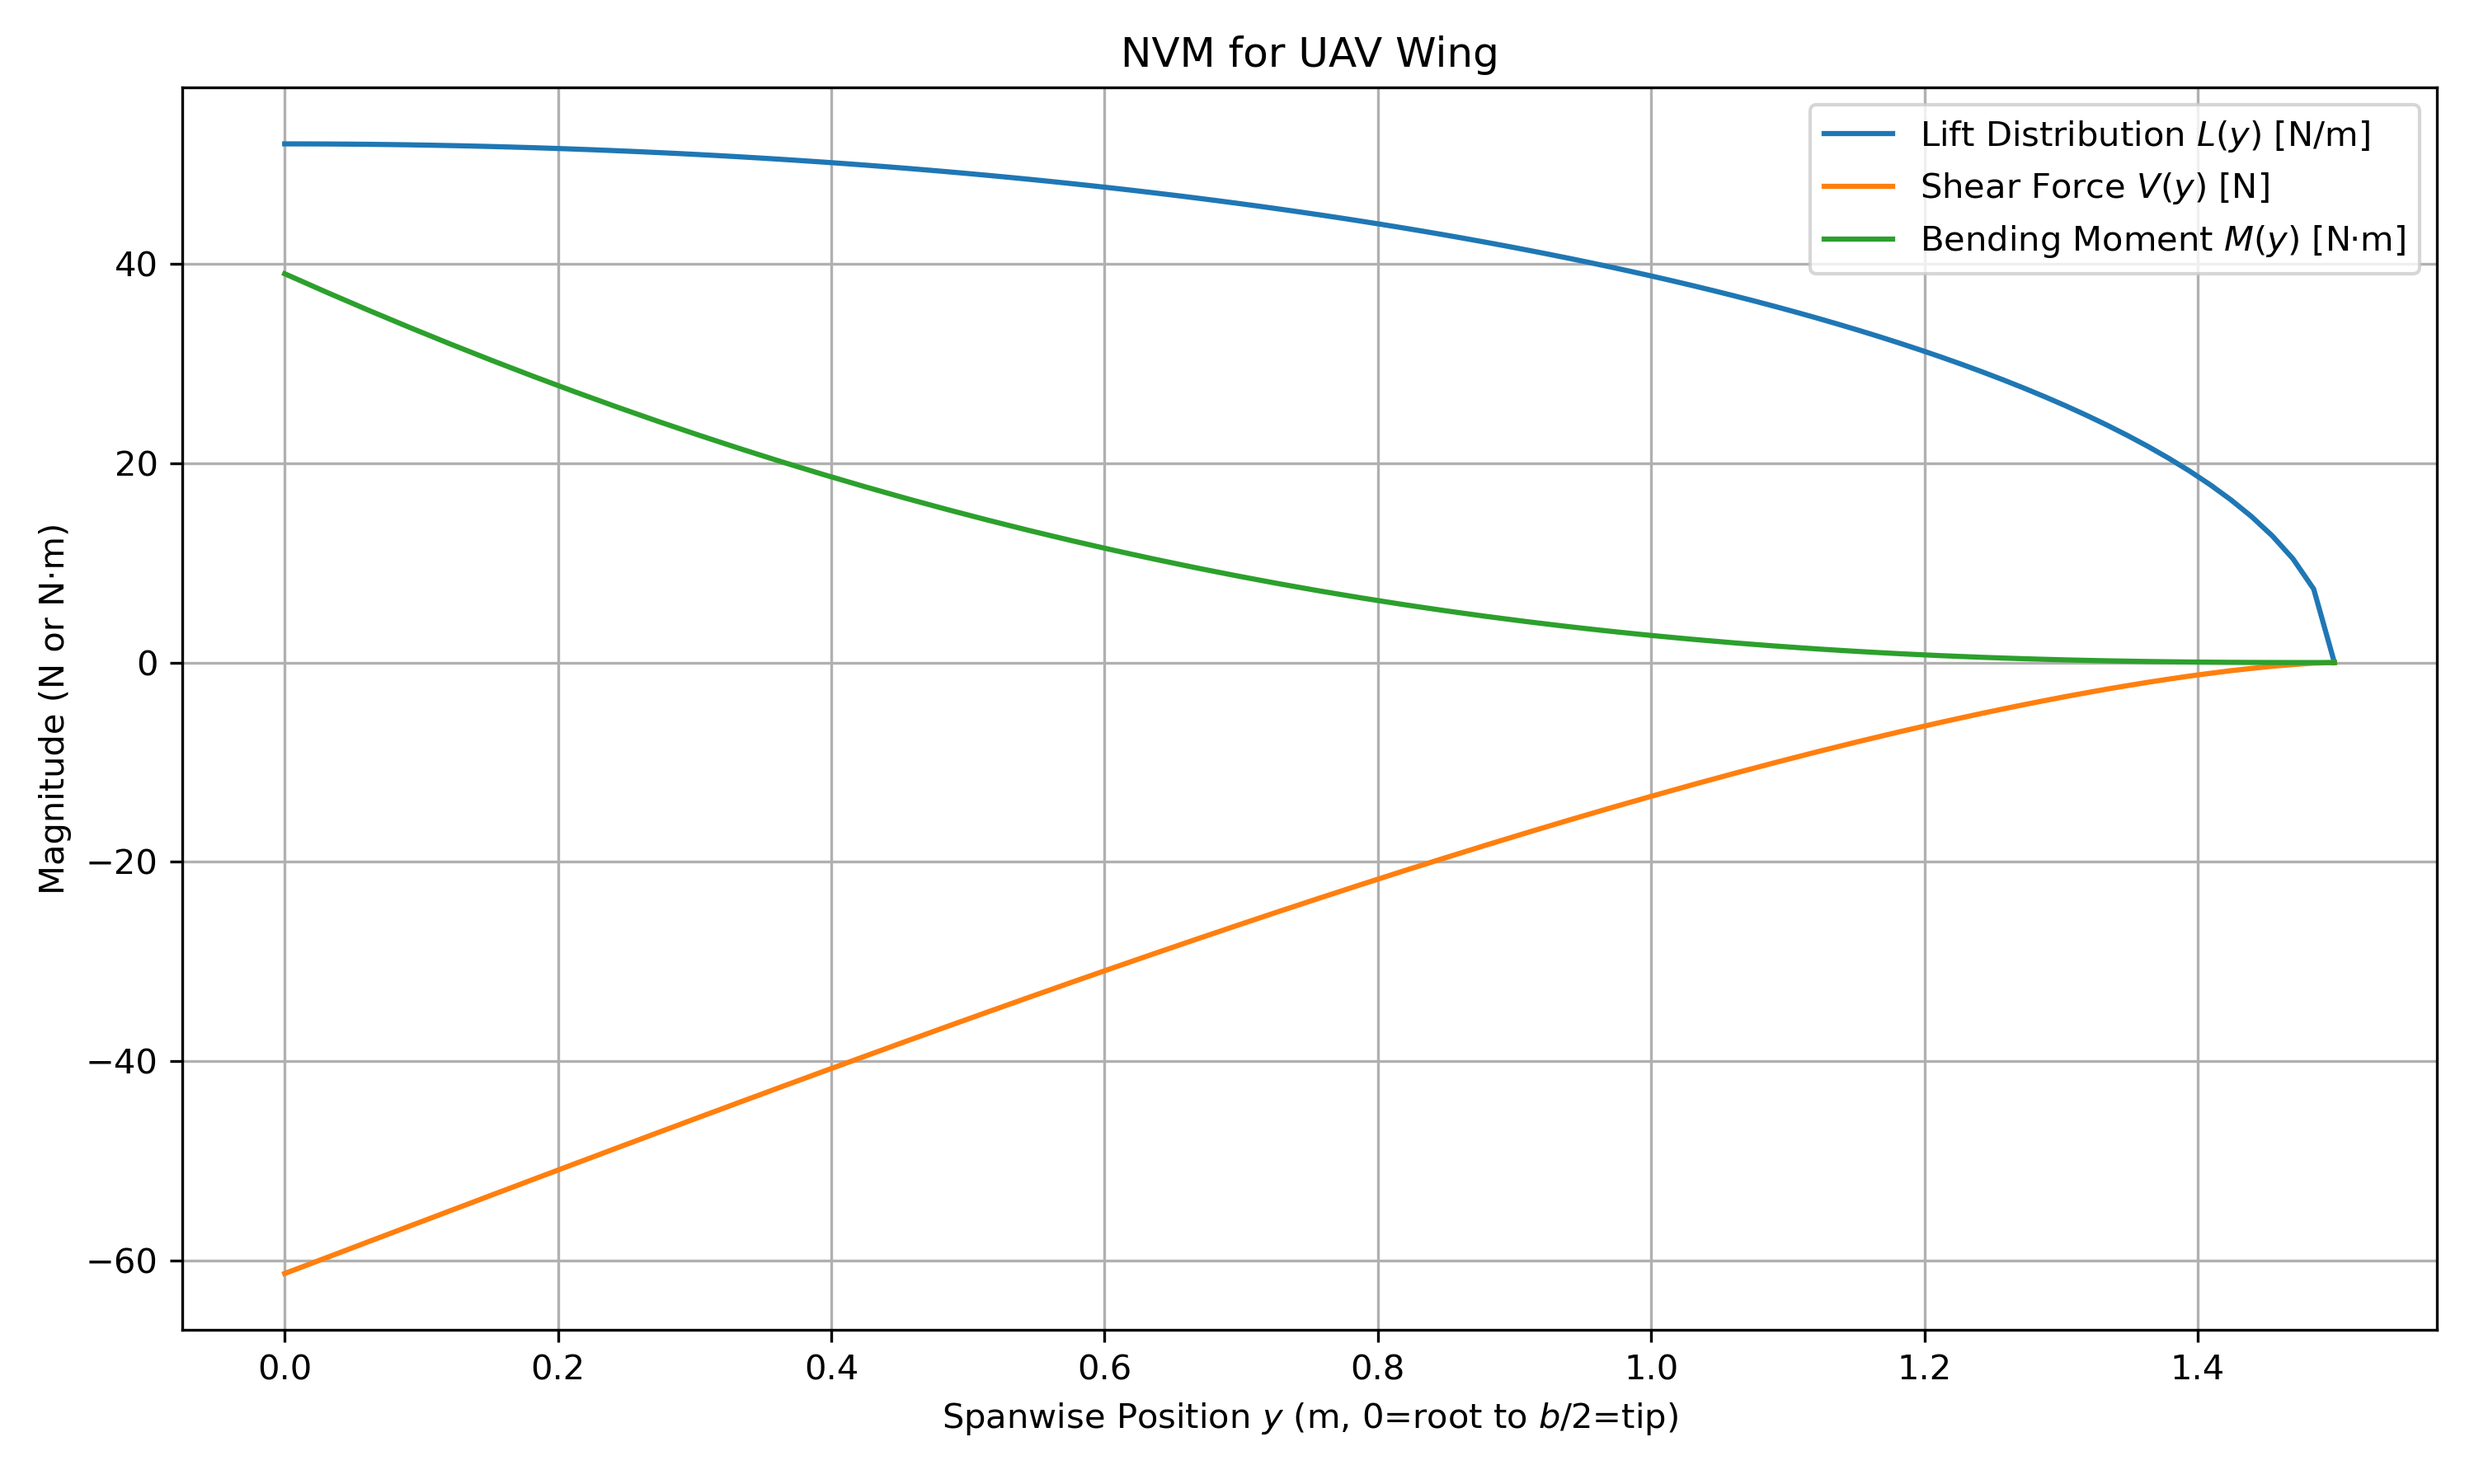
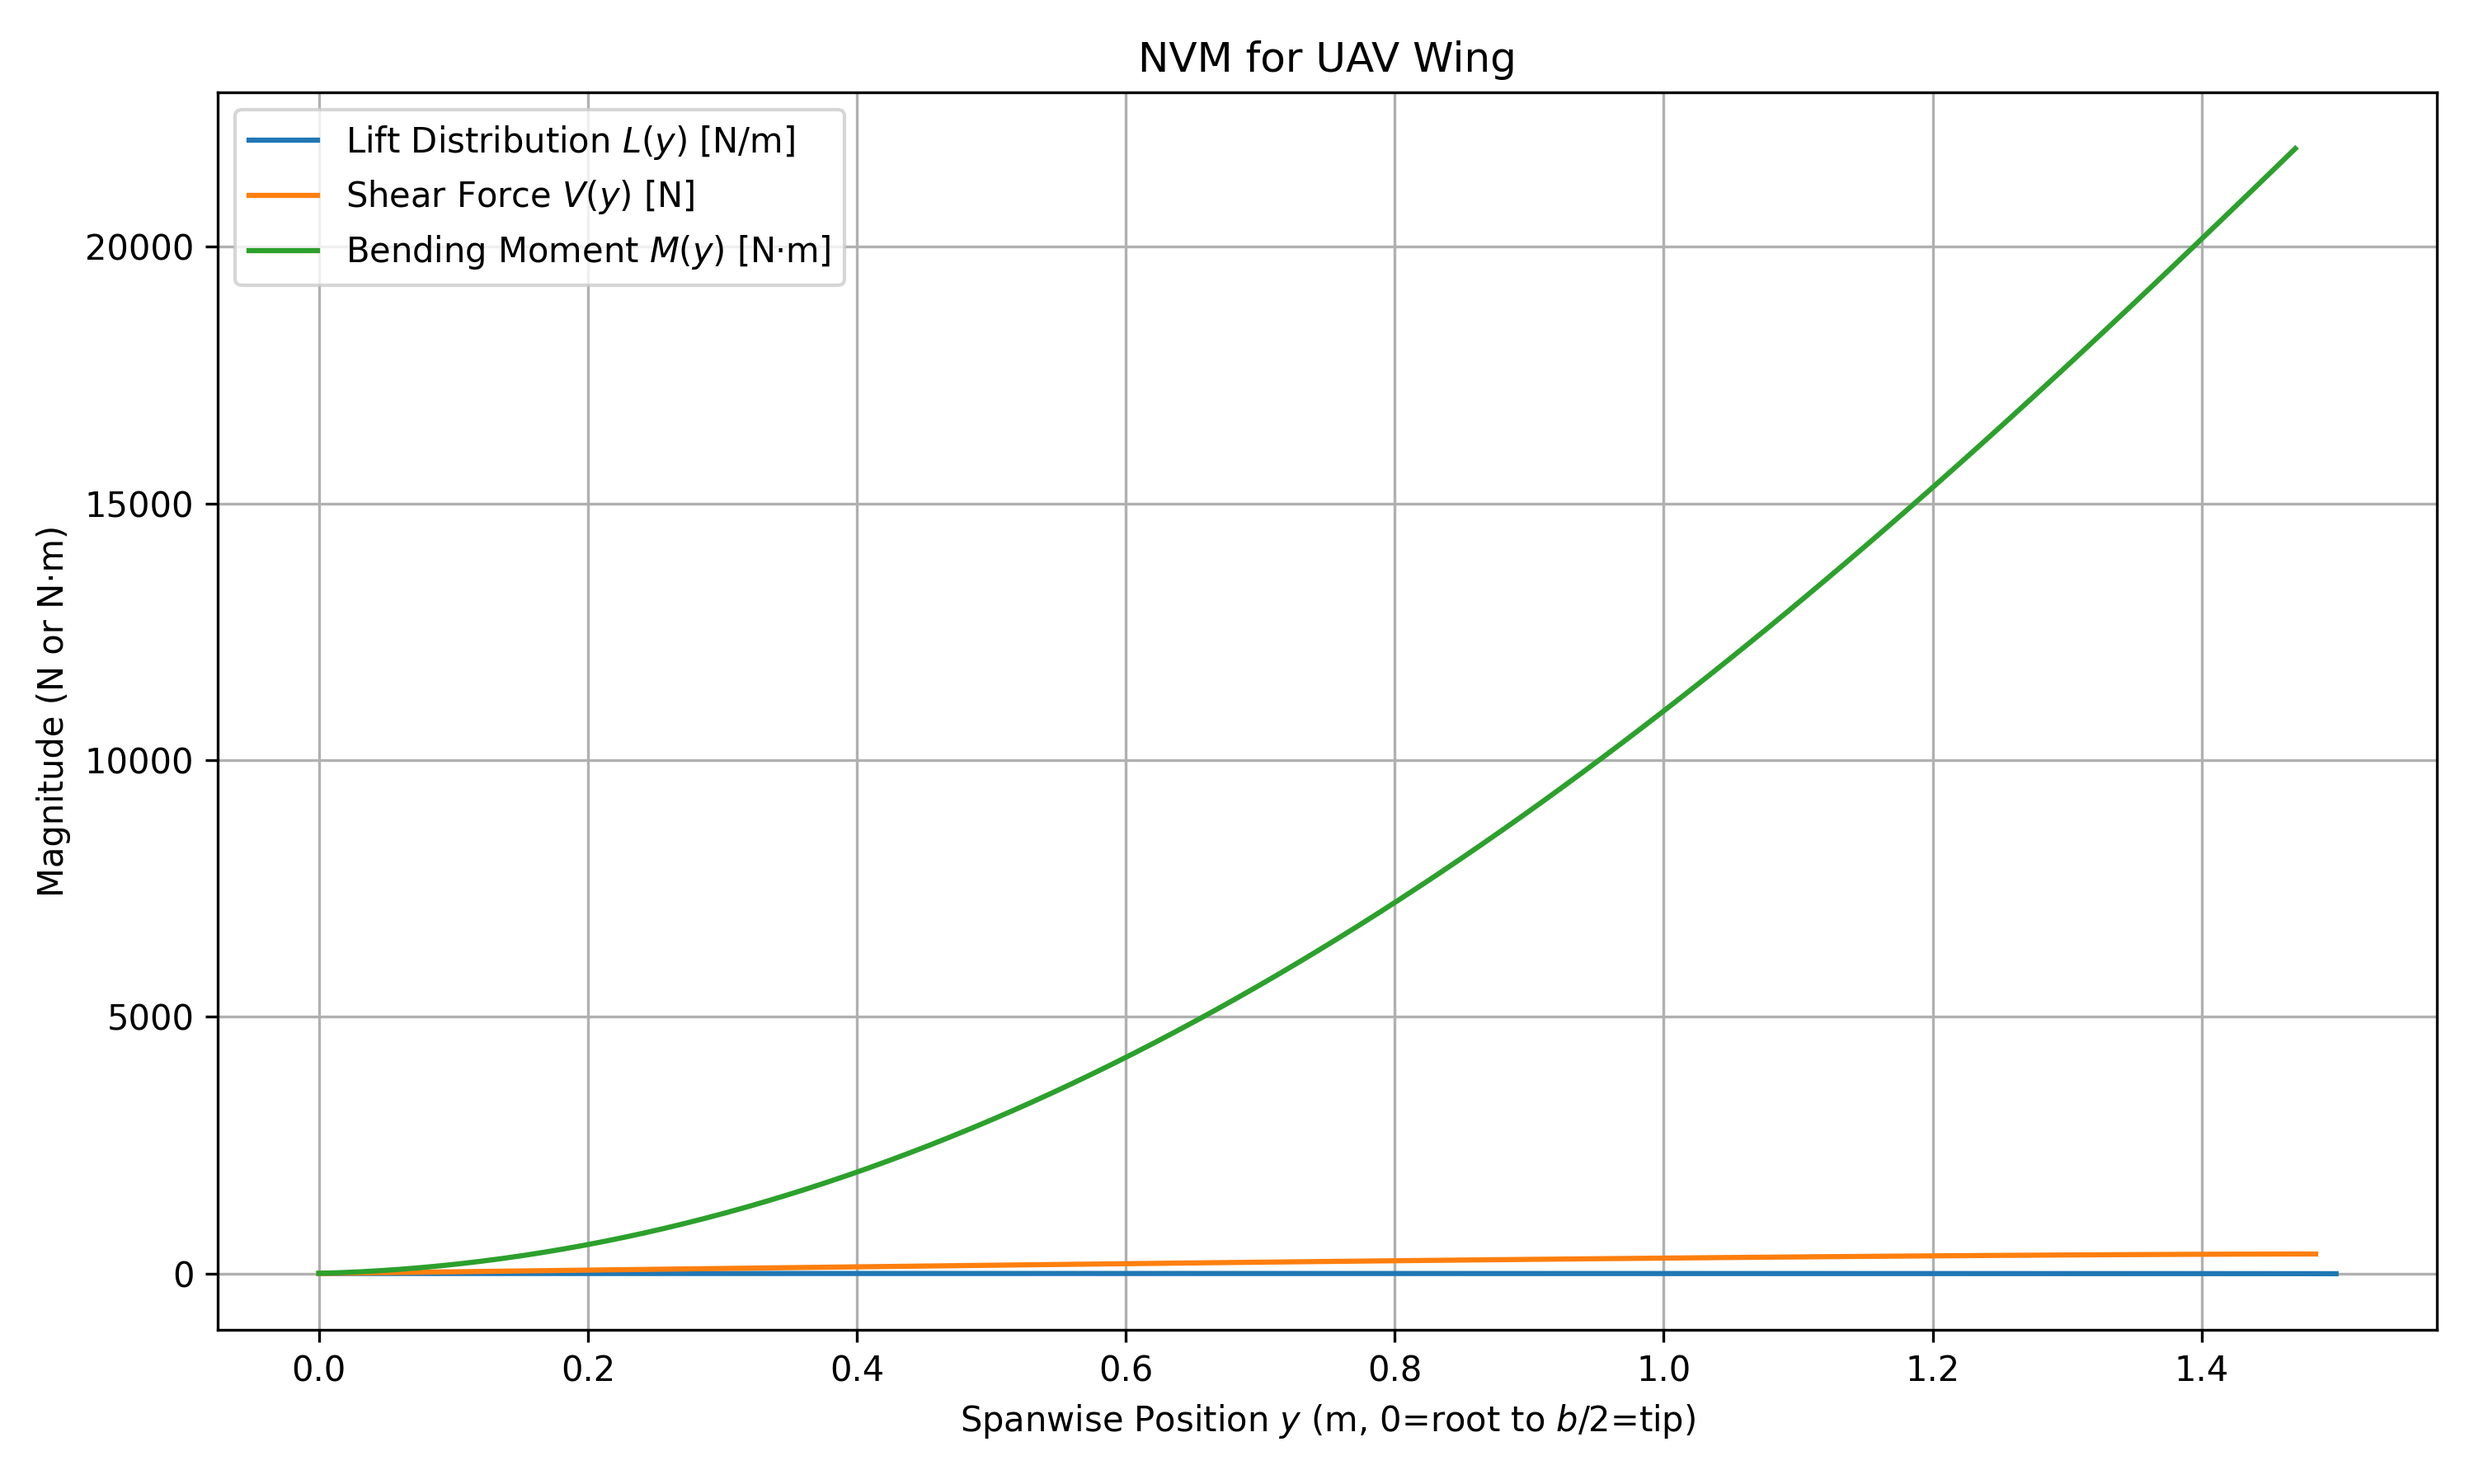
tried my best

diff --git a/DetailedDesign/subsystems/structures.py b/DetailedDesign/subsystems/structures.py
@@ -4,7 +4,7 @@ This is the file for the Structures subsystem. It contains a single class.
 
 import numpy as np
 import matplotlib.pyplot as plt
-from scipy.integrate import simpson
+from scipy import integrate
 
 import sys
 from pathlib import Path
@@ -14,7 +14,7 @@ from typing import Any
 PROJECT_ROOT = Path(__file__).resolve().parents[2]
 sys.path.append(str(PROJECT_ROOT))
 
-from DetailedDesign.funny_inputs import stab_n_con_funny_inputs as fi
+from DetailedDesign.funny_inputs import funny_inputs as fi
 
 
 import sys
@@ -28,7 +28,10 @@ class Structures:
     def __init__(self, inputs: dict[str, float]) -> None:
         self.inputs = inputs
         self.wing_span = inputs["wing_span"]
-        self.outputs = self.inputs.copy()
+        self.mtow = self.inputs['mtow']
+        self.span = self.inputs['wing_span']
+        self.rho = self.inputs['rho']
+        self.V_max = self.inputs['V_max']
 
     # ~~~ Intermediate Functions ~~~
 
@@ -42,59 +45,35 @@ class Structures:
         """
         This function creates NVM plots for the UAV wing (hard-coded values).
         """
-        import numpy as np
-        import matplotlib.pyplot as plt
-        from scipy.integrate import simpson
-        import os
 
-        # --- Hard-coded parameters ---
-        b = self.wing_span  # Full span (m)
-        mass = 25.0  # UAV mass (kg)
-        load_factor = 1.0  # 1.0 for level cruise (no pull-up)
-        g = 9.81  # Gravity (m/s²)
+        half_span = self.span / 2.0
+        y = np.linspace(0.0, half_span, 500)  # 0 (root) to b/2 (tip)
 
-        # Total lift for design (level flight)
-        L_total = mass * g * load_factor
+        # L_y = (self.mtow / (np.pi/4 * self.rho * self.V_max *self.span)) * np.sqrt(1 - (2*y / self.span)**2)
+        L = ((4*self.mtow) / (np.pi*self.span)) * np.sqrt(1 - ((2*y)/self.span))
 
-        # Half-span discretisation
-        half_span = b / 2.0
-        y = np.linspace(0.0, half_span, 100)  # 0 (root) to b/2 (tip)
+        L_y = integrate.cumulative_simpson(L, x=y)
+        V = integrate.cumulative_simpson(L_y, x=y[:-1])
+        M = integrate.cumulative_simpson(V, x=y[:-2])
 
-        # Elliptical lift distribution: L(y) [N/m]
-        #   L(y) = (L_total * 2/(π * b)) * sqrt(1 - (2y/b)²)
-        L_y = (L_total * 2.0 / (np.pi * b)) * np.sqrt(
-            np.maximum(0.0, 1.0 - (2.0 * y / b) ** 2)
-        )
+        print(len(y), len(M))
 
-        # Pre-allocate shear and moment arrays
-        V = np.zeros_like(y)  # Shear force [N]
-        M = np.zeros_like(y)  # Bending moment [N·m]
+        V = V - V[-1]
+        M = M - M[-1]
 
-        # Compute V(y) and M(y) via Simpson’s rule with correct x-spacing
-        for i in range(len(y)):
-            yi = y[i:]  # Stations from current i to tip
-            Li = L_y[i:]  # Corresponding lift values
-            # Shear: V(y_i) = ∫[y_i to b/2] L(η) dη
-            V[i] = -simpson(Li, yi)
-            # Moment: M(y_i) = ∫[y_i to b/2] L(η) * (η − y_i) dη
-            M[i] = simpson(Li * (yi - y[i]), yi)
-
-        # Ensure “Plots” directory exists
-        os.makedirs("Plots", exist_ok=True)
 
         # Plot Lift, Shear and Moment on the same axes
         plt.figure(figsize=(10, 6))
-        plt.plot(y, L_y, label="Lift Distribution $L(y)$ [N/m]")
-        plt.plot(y, V, label="Shear Force $V(y)$ [N]")
-        plt.plot(y, M, label="Bending Moment $M(y)$ [N·m]")
+        plt.plot(y[:-1], L_y, label="Lift Distribution $L(y)$ [N/m]")
+        plt.plot(y[:-2], V, label="Shear Force $V(y)$ [N]")
+        plt.plot(y[:-3], M, label="Bending Moment $M(y)$ [N·m]")
         plt.title("NVM for UAV Wing")
         plt.xlabel("Spanwise Position $y$ (m, 0=root to $b/2$=tip)")
         plt.ylabel("Magnitude (N or N·m)")
         plt.legend()
         plt.grid(True)
         plt.tight_layout()
-        plt.savefig("Plots/VM_UAV_Wing.png", dpi=300)
-        plt.close()
+        plt.savefig("DetailedDesign\subsystems\Plots\Try.png", dpi=300)
 
         return None
 

diff --git a/DetailedDesign/deployment.py b/DetailedDesign/deployment.py
@@ -287,5 +287,3 @@ class Deployment:
     
 if __name__ == '__main__': # pragma: no cover
     # Perform sanity checks here
-    dep = Deployment(funny_inputs)
-    print(dep.get_all())
